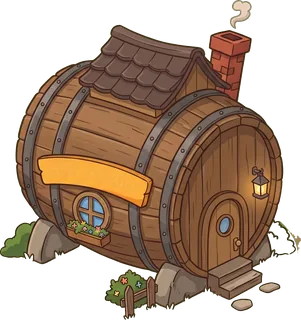
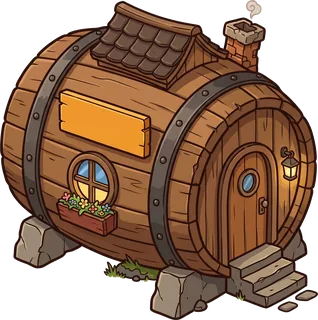
Houses: second user batch — root cottage and ivy house added, dome house and barrel inn replaced with cleaner art (89 total)

diff --git a/kasaba-gecesi/sunucu/game.js b/kasaba-gecesi/sunucu/game.js
@@ -73,7 +73,7 @@ const KOZMETIK={
   bayrak:{kirmizi:{n:'Kırmızı bayrak',nadir:'siradan',renk:'#e23b3b'},mavi:{n:'Mavi bayrak',nadir:'siradan',renk:'#3b7bff'},yesil:{n:'Yeşil bayrak',nadir:'siradan',renk:'#2fb55a'},mor:{n:'Mor bayrak',nadir:'siradan',renk:'#8e4bff'},
     yildiz:{n:'Yıldızlı bayrak',nadir:'nadir',renk:'#1e3a8a',ico:'⭐'},ay:{n:'Hilal bayrağı',nadir:'nadir',renk:'#0e1a3d',ico:'🌙'},ejder:{n:'Ejder sancağı',nadir:'efsanevi',renk:'#7a1010',ico:'🐉'},simsek:{n:'Şimşek sancağı',nadir:'efsanevi',renk:'#3a2f1c',ico:'⚡'}},
   // ev görünümleri: çizimler sayfa/evler.js (SVG) ve sayfa/ev/<key>.webp (kullanıcı resimleri); anahtar listesi testle eşlenir
-  ev:{'kemerli-kulube':{n:'Kemerli kulübe',nadir:'siradan'},'toprak-dam':{n:'Toprak damlı ev',nadir:'siradan'},'kaya-konak':{n:'Kaya konak',nadir:'nadir'},'ayakli-ev':{n:'Ayaklı ev',nadir:'siradan'},'ucan-daire':{n:'Uçan daire',nadir:'efsanevi'},'mekanik-mantar':{n:'Mekanik mantar',nadir:'efsanevi'},'sera-kubbe':{n:'Sera kubbe',nadir:'efsanevi'},'cimen-dam':{n:'Çimen damlı ev',nadir:'nadir'},'fici-han':{n:'Fıçı han',nadir:'nadir'},'kapsul-ev':{n:'Kapsül ev',nadir:'efsanevi'},'ahsap-kosk':{n:'Ahşap köşk',nadir:'siradan'},'mantar-kosk':{n:'Mantar köşk',nadir:'nadir'},'kutuk-ev':{n:'Kütük ev',nadir:'nadir'},'kubbe-ev':{n:'Kubbe ev',nadir:'siradan'},'a-catili':{n:'A çatılı kulübe',nadir:'siradan'},'kule-ev':{n:'Kule ev',nadir:'nadir'},'fici':{n:'Fıçı ev',nadir:'siradan'},'mantar':{n:'Benekli mantar',nadir:'siradan'},'peribacasi':{n:'Peri bacası',nadir:'nadir'},'yurt':{n:'Keçe yurt',nadir:'siradan'},'igloo':{n:'Buz evi',nadir:'nadir'},'deniz-feneri':{n:'Deniz feneri',nadir:'nadir'},'yel-degirmeni':{n:'Yel değirmeni',nadir:'nadir'},'caydanlik':{n:'Çaydanlık ev',nadir:'nadir'},'cizme':{n:'Çizme ev',nadir:'nadir'},'kabak':{n:'Kabak ev',nadir:'nadir'},'salyangoz':{n:'Salyangoz kabuğu',nadir:'nadir'},'ters-kayik':{n:'Ters kayık',nadir:'siradan'},'agac-ev':{n:'Ağaç ev',nadir:'efsanevi'},'bulut':{n:'Bulut ev',nadir:'efsanevi'},'yuzen-ada':{n:'Yüzen ada',nadir:'efsanevi'},'saat-kulesi':{n:'Saat kulesi',nadir:'efsanevi'},'kristal':{n:'Kristal mağara',nadir:'efsanevi'},'roket':{n:'Roket ev',nadir:'efsanevi'},'steampunk':{n:'Buhar köşkü',nadir:'efsanevi'},'cadi':{n:'Cadı kulübesi',nadir:'nadir'},'kitap':{n:'Kitap ev',nadir:'efsanevi'},'sirk-cadiri':{n:'Sirk çadırı',nadir:'nadir'},'serender':{n:'Serender',nadir:'siradan'},'kerpic-kule':{n:'Kerpiç kule',nadir:'nadir'},'rondavel':{n:'Saz kulübe',nadir:'siradan'},'ejder-yumurtasi':{n:'Ejder yumurtası',nadir:'efsanevi'},'kar-kuresi':{n:'Kar küresi',nadir:'efsanevi'},'pagoda':{n:'Pagoda',nadir:'efsanevi'},'basamakli-tas':{n:'Basamaklı taş ev',nadir:'nadir'},'yoruk-cadiri':{n:'Yörük çadırı',nadir:'siradan'},'kervansaray':{n:'Kervansaray evi',nadir:'nadir'},'kirmizi-ev':{n:'Kırmızı ahşap ev',nadir:'siradan'},'alp-saleti':{n:'Alp şalesi',nadir:'siradan'},'safranbolu':{n:'Safranbolu konağı',nadir:'nadir'},'mardin':{n:'Mardin taş evi',nadir:'nadir'},'ege-tas':{n:'Ege taş evi',nadir:'siradan'},'kerpic-dam':{n:'Kerpiç damlı ev',nadir:'siradan'},'santorini':{n:'Ak badanalı ev',nadir:'nadir'},'viking':{n:'Viking uzun evi',nadir:'nadir'},'minka':{n:'Minka',nadir:'nadir'},'fenerli-ev':{n:'Fenerli ev',nadir:'nadir'},'roma-villasi':{n:'Roma villası',nadir:'nadir'},'venedik':{n:'Venedik evi',nadir:'nadir'},'riad':{n:'Riad',nadir:'nadir'},'kanal-evi':{n:'Kanal evi',nadir:'nadir'},'izba':{n:'İzba',nadir:'siradan'},'tudor':{n:'Yarım ahşap ev',nadir:'siradan'},'tas-kulube':{n:'Taş kulübe',nadir:'siradan'},'tugla-ev':{n:'Tuğla ev',nadir:'siradan'},'karli-kulube':{n:'Karlı kulübe',nadir:'siradan'},'saz-damli':{n:'Saz damlı ev',nadir:'siradan'},'cim-damli':{n:'Yuvarlak kapılı ev',nadir:'siradan'},'balikci':{n:'Balıkçı evi',nadir:'siradan'},'firin':{n:'Fırın ev',nadir:'siradan'},'demirci':{n:'Demirci evi',nadir:'siradan'},'bahceli':{n:'Bahçeli ev',nadir:'siradan'},'ambar':{n:'Ambar ev',nadir:'siradan'},'gece-mavisi':{n:'Gece mavisi ev',nadir:'nadir'},'altin-kosk':{n:'Altın köşk',nadir:'efsanevi'},'buyucu-evi':{n:'Büyücü evi',nadir:'nadir'},'kurabiye':{n:'Kurabiye ev',nadir:'nadir'},'neon-ev':{n:'Neon ev',nadir:'efsanevi'},'gunes-evi':{n:'Güneş evi',nadir:'nadir'},'konak':{n:'Konak',nadir:'siradan'},'yali':{n:'Yalı',nadir:'nadir'},'karadeniz':{n:'Karadeniz evi',nadir:'siradan'},'burc':{n:'Burç ev',nadir:'siradan'},'nil-evi':{n:'Nil kerpiç evi',nadir:'siradan'},'hanok':{n:'Hanok',nadir:'nadir'},'bambu-ev':{n:'Bambu ev',nadir:'siradan'},'kutup-istasyonu':{n:'Kutup istasyonu',nadir:'nadir'}},
+  ev:{'kemerli-kulube':{n:'Kemerli kulübe',nadir:'siradan'},'toprak-dam':{n:'Toprak damlı ev',nadir:'siradan'},'kaya-konak':{n:'Kaya konak',nadir:'nadir'},'ayakli-ev':{n:'Ayaklı ev',nadir:'siradan'},'ucan-daire':{n:'Uçan daire',nadir:'efsanevi'},'mekanik-mantar':{n:'Mekanik mantar',nadir:'efsanevi'},'sera-kubbe':{n:'Sera kubbe',nadir:'efsanevi'},'cimen-dam':{n:'Çimen damlı ev',nadir:'nadir'},'fici-han':{n:'Fıçı han',nadir:'nadir'},'kapsul-ev':{n:'Kapsül ev',nadir:'efsanevi'},'ahsap-kosk':{n:'Ahşap köşk',nadir:'siradan'},'mantar-kosk':{n:'Mantar köşk',nadir:'nadir'},'kutuk-ev':{n:'Kütük ev',nadir:'nadir'},'kubbe-ev':{n:'Kubbe ev',nadir:'siradan'},'a-catili':{n:'A çatılı kulübe',nadir:'siradan'},'kule-ev':{n:'Kule ev',nadir:'nadir'},'kok-kosk':{n:'Kök köşk',nadir:'nadir'},'sarmasikli-ev':{n:'Sarmaşıklı ev',nadir:'siradan'},'fici':{n:'Fıçı ev',nadir:'siradan'},'mantar':{n:'Benekli mantar',nadir:'siradan'},'peribacasi':{n:'Peri bacası',nadir:'nadir'},'yurt':{n:'Keçe yurt',nadir:'siradan'},'igloo':{n:'Buz evi',nadir:'nadir'},'deniz-feneri':{n:'Deniz feneri',nadir:'nadir'},'yel-degirmeni':{n:'Yel değirmeni',nadir:'nadir'},'caydanlik':{n:'Çaydanlık ev',nadir:'nadir'},'cizme':{n:'Çizme ev',nadir:'nadir'},'kabak':{n:'Kabak ev',nadir:'nadir'},'salyangoz':{n:'Salyangoz kabuğu',nadir:'nadir'},'ters-kayik':{n:'Ters kayık',nadir:'siradan'},'agac-ev':{n:'Ağaç ev',nadir:'efsanevi'},'bulut':{n:'Bulut ev',nadir:'efsanevi'},'yuzen-ada':{n:'Yüzen ada',nadir:'efsanevi'},'saat-kulesi':{n:'Saat kulesi',nadir:'efsanevi'},'kristal':{n:'Kristal mağara',nadir:'efsanevi'},'roket':{n:'Roket ev',nadir:'efsanevi'},'steampunk':{n:'Buhar köşkü',nadir:'efsanevi'},'cadi':{n:'Cadı kulübesi',nadir:'nadir'},'kitap':{n:'Kitap ev',nadir:'efsanevi'},'sirk-cadiri':{n:'Sirk çadırı',nadir:'nadir'},'serender':{n:'Serender',nadir:'siradan'},'kerpic-kule':{n:'Kerpiç kule',nadir:'nadir'},'rondavel':{n:'Saz kulübe',nadir:'siradan'},'ejder-yumurtasi':{n:'Ejder yumurtası',nadir:'efsanevi'},'kar-kuresi':{n:'Kar küresi',nadir:'efsanevi'},'pagoda':{n:'Pagoda',nadir:'efsanevi'},'basamakli-tas':{n:'Basamaklı taş ev',nadir:'nadir'},'yoruk-cadiri':{n:'Yörük çadırı',nadir:'siradan'},'kervansaray':{n:'Kervansaray evi',nadir:'nadir'},'kirmizi-ev':{n:'Kırmızı ahşap ev',nadir:'siradan'},'alp-saleti':{n:'Alp şalesi',nadir:'siradan'},'safranbolu':{n:'Safranbolu konağı',nadir:'nadir'},'mardin':{n:'Mardin taş evi',nadir:'nadir'},'ege-tas':{n:'Ege taş evi',nadir:'siradan'},'kerpic-dam':{n:'Kerpiç damlı ev',nadir:'siradan'},'santorini':{n:'Ak badanalı ev',nadir:'nadir'},'viking':{n:'Viking uzun evi',nadir:'nadir'},'minka':{n:'Minka',nadir:'nadir'},'fenerli-ev':{n:'Fenerli ev',nadir:'nadir'},'roma-villasi':{n:'Roma villası',nadir:'nadir'},'venedik':{n:'Venedik evi',nadir:'nadir'},'riad':{n:'Riad',nadir:'nadir'},'kanal-evi':{n:'Kanal evi',nadir:'nadir'},'izba':{n:'İzba',nadir:'siradan'},'tudor':{n:'Yarım ahşap ev',nadir:'siradan'},'tas-kulube':{n:'Taş kulübe',nadir:'siradan'},'tugla-ev':{n:'Tuğla ev',nadir:'siradan'},'karli-kulube':{n:'Karlı kulübe',nadir:'siradan'},'saz-damli':{n:'Saz damlı ev',nadir:'siradan'},'cim-damli':{n:'Yuvarlak kapılı ev',nadir:'siradan'},'balikci':{n:'Balıkçı evi',nadir:'siradan'},'firin':{n:'Fırın ev',nadir:'siradan'},'demirci':{n:'Demirci evi',nadir:'siradan'},'bahceli':{n:'Bahçeli ev',nadir:'siradan'},'ambar':{n:'Ambar ev',nadir:'siradan'},'gece-mavisi':{n:'Gece mavisi ev',nadir:'nadir'},'altin-kosk':{n:'Altın köşk',nadir:'efsanevi'},'buyucu-evi':{n:'Büyücü evi',nadir:'nadir'},'kurabiye':{n:'Kurabiye ev',nadir:'nadir'},'neon-ev':{n:'Neon ev',nadir:'efsanevi'},'gunes-evi':{n:'Güneş evi',nadir:'nadir'},'konak':{n:'Konak',nadir:'siradan'},'yali':{n:'Yalı',nadir:'nadir'},'karadeniz':{n:'Karadeniz evi',nadir:'siradan'},'burc':{n:'Burç ev',nadir:'siradan'},'nil-evi':{n:'Nil kerpiç evi',nadir:'siradan'},'hanok':{n:'Hanok',nadir:'nadir'},'bambu-ev':{n:'Bambu ev',nadir:'siradan'},'kutup-istasyonu':{n:'Kutup istasyonu',nadir:'nadir'}},
   efekt:{yaprak:{n:'Yaprak',nadir:'siradan',ico:'🍂'},yildiz:{n:'Yıldız',nadir:'nadir',ico:'✨'},duman:{n:'Duman',nadir:'nadir',ico:'💨'},havaifisek:{n:'Havai fişek',nadir:'efsanevi',ico:'🎆'}}
 };
 const KASA={esya:50,yildiz:12,siradan:25,nadir:10,efsanevi:3}; // yüzde

diff --git a/kasaba-gecesi/sayfa/evler.js b/kasaba-gecesi/sayfa/evler.js
@@ -264,7 +264,7 @@ const P={
 for(const [k,o] of Object.entries(P))M[k]=kutu(o);
 // ---------- kullanıcının çizdiği evler (raster) ----------
 const RESIM={'kemerli-kulube':[320,278],'toprak-dam':[309,320],'kaya-konak':[283,320],'ayakli-ev':[305,320],'ucan-daire':[320,320],'mekanik-mantar':[292,320],'sera-kubbe':[284,320],'cimen-dam':[313,320],
-  'fici-han':[301,320],'kapsul-ev':[311,320],'ahsap-kosk':[308,320],'mantar-kosk':[307,320],'kutuk-ev':[315,320],'kubbe-ev':[320,316],'a-catili':[320,317],'kule-ev':[217,320]};
+  'fici-han':[318,320],'kapsul-ev':[311,320],'ahsap-kosk':[308,320],'mantar-kosk':[307,320],'kutuk-ev':[315,320],'kubbe-ev':[320,293],'a-catili':[320,317],'kule-ev':[217,320],'kok-kosk':[320,315],'sarmasikli-ev':[308,320]};
 // sahne ölçüsü: genişlik en çok 150, yükseklik en çok 140 birim; taban y=40
 function resimOlcu(key){const r=RESIM[key];if(!r)return null;const s=Math.min(150/r[0],140/r[1]);const w=r[0]*s,h=r[1]*s;return{w,h,x:-w/2+6,y:40-h}}
 function resimModel(key,url){const o=resimOlcu(key);return{resim:url,kapi:null,pencere:null,golge:{cx:6,rx:o.w*0.48},ust:o.y+4,

diff --git a/docs/DURUM.md b/docs/DURUM.md
@@ -47,7 +47,7 @@ Kasa (her maç sonu), rozetler, `/ben` (dükkân, dolap), kozmetikler oyunda gö
 Kullanıcı kararları: eşyayı şans belirler (rol sonrası seçim yok); meydan paketi (ilk dokunan alır, kısa süre, "biri kaptı"), paket eşya sayısı hayatta olana bağlı; tek anahtar. Uygulandı: 10 eşya üç katmanda (bedava havuz sıradan+zar; nadir/efsanevi yalnız kasadan), iki yuva, pasif iksir ve vasiyet, hedefli kilit/pusula (ziyaret değil), kum saati, zar, paket; maç sonu kim ne kullandı (fiş hariç); gazete/hikâye satırları; `/ben` ve veritabanı değişmedi. Güvenlik taraması (commit başına, 3 bulgu → düzeltildi): zar envanter düşümü özgün anahtarla; fiş maç sonu listesine hiç girmez; fiş paketini kapanın kimliği günlüğe yazılmaz. Ölçüm README'de (kapalıyla fark gürültü içinde; kullanım %34–61). Oturum içi istek: eşya çipine dokununca bilgi kutusu (ne yapar + nasıl kullanılır, `ESYA[].nasil`), rehberde "Nasıl:" satırı. Taze inceleme (fable): 0 kritik, 3 önemli → düzeltildi (paket sabah animasyonundan sonra; Hortlak vasiyeti hayalet hedefini söylemez; iki iksir tek harcanır). Ertelenen küçükler (kucukler-3 ile kapandı): `kap` paket açıkken yalnız kapanın priv'ini gönderir; paket halkası 100 ms sayaçla; hedefli eşya seçimi sonrası rol modu geri gelir; plan metni ve `denge.js` temizliği. **Kabul:** maç sonu listesinde boş eşya satırı lobi eşyasının fiş olduğunu ima eder (tasarım kaynaklı); `kap/esya` `d,g` eksikse kabul (`act/vote` ile aynı). **Canlı: `main@37ea08b` (2026-10-26 akşam; `main` `ilerleme`/`esya-2`'ye fast-forward edildi, kasaba ve kasaba-test aynı; göç 008 zaten DB'deydi, 0 yeni göç). `ilerleme` ve `esya-2` bitmiş dallar.** Botla 8 kişilik gerçek maç: lobide zar → vasiyete döndü, 3 paket düştü/kapıldı (kum, vasiyet, zar), kum çevrildi (+30 sn), maske/pusula haberleri anonim, vasiyet sabah okundu, maç sonu eşya sütunu ve gazete kartları doğru, kasadan iksir, sayfa hatası yok. Canlıda gerçek oyuncularla izlenecek: fenerin ve kilidin gücü, paket kapma dağılımı, kum saati kullanımı.
 
 ## Ev görünümleri (2026-10-27, dal `evler`, kasaba-test'te)
-Kullanıcı isteği: evler puan/yıldızla alınabilsin, 80+ ev, kullanıcının 16 resmi de kullanılsın. Yeni kozmetik türü **`ev`** (`KOZMETIK.ev`, 87 ev: 34 sıradan, 37 nadir, 16 efsanevi): 71 SVG (`sayfa/evler.js`, parça kütüphanesi + özel siluetler: deniz feneri, yel değirmeni, yurt, pagoda, peri bacası, Safranbolu, Mardin, minka, Viking…) ve kullanıcının 16 resmi (`sayfa/ev/<key>.webp`, 320 px saydam; arka plan, kum halkası ve zemin çimeni betikle silindi, tabeladaki "SEN · DOKUN" yazısı örtüldü; toplam ~445 KB, yalnız kullanılınca yüklenir). Kasa, dükkân (/ben önizlemeli), dolap ("Evin"), sunucu sahiplik doğrulaması; `kasaOdulu` nadirlik içinde önce türü eşit seçer (85 ev şapka/bayrağı ezmesin). Sahnede model kapı/pencere ışığı/parlama/karartma/ad yüksekliği verir; resimli evlerde kapı animasyonu ve pencere ışığı yok, ölünce gri ton. Sahne anahtarına bayrak ve ev eklendi (önce bayrak değişince sahne yenilenmiyordu). Kullanıcının görsel ajanı için talimat `docs/ev-gorselleri-talimat.md`; ajanın 2026-10-27 paketi resim içermiyordu (yalnız 20 kayıtlık katalog ve işlevsiz betik), yeni iki fikir SVG olarak eklendi (Yörük çadırı, Kervansaray evi; kümbet türbe olduğu için kervansaray kapısına çevrildi). Göç yok.
+Kullanıcı isteği: evler puan/yıldızla alınabilsin, 80+ ev, kullanıcının 16 resmi de kullanılsın. Yeni kozmetik türü **`ev`** (`KOZMETIK.ev`, 89 ev: 35 sıradan, 38 nadir, 16 efsanevi): 71 SVG (`sayfa/evler.js`, parça kütüphanesi + özel siluetler: deniz feneri, yel değirmeni, yurt, pagoda, peri bacası, Safranbolu, Mardin, minka, Viking…) ve kullanıcının 18 resmi (`sayfa/ev/<key>.webp`; 2026-10-27 ikinci parti beyaz zeminli 8 resimden Kök köşk ve Sarmaşıklı ev eklendi, Kubbe ev ve Fıçı han zemin disksiz sürümle değişti, toprak damlı 4 varyant mevcut evin tekrarı olduğu için alınmadı, 320 px saydam; arka plan, kum halkası ve zemin çimeni betikle silindi, tabeladaki "SEN · DOKUN" yazısı örtüldü; toplam ~445 KB, yalnız kullanılınca yüklenir). Kasa, dükkân (/ben önizlemeli), dolap ("Evin"), sunucu sahiplik doğrulaması; `kasaOdulu` nadirlik içinde önce türü eşit seçer (85 ev şapka/bayrağı ezmesin). Sahnede model kapı/pencere ışığı/parlama/karartma/ad yüksekliği verir; resimli evlerde kapı animasyonu ve pencere ışığı yok, ölünce gri ton. Sahne anahtarına bayrak ve ev eklendi (önce bayrak değişince sahne yenilenmiyordu). Kullanıcının görsel ajanı için talimat `docs/ev-gorselleri-talimat.md`; ajanın 2026-10-27 paketi resim içermiyordu (yalnız 20 kayıtlık katalog ve işlevsiz betik), yeni iki fikir SVG olarak eklendi (Yörük çadırı, Kervansaray evi; kümbet türbe olduğu için kervansaray kapısına çevrildi). Göç yok.
 
 ## Paket yeri rastgele (2026-10-27, dal `paket-yeri`, canlıda)
 Kullanıcı önerisi: meydan paketi hep ortaya düşmesin. Sunucu açılışta `P.paket.yer={x,y}` (birim disk, herkese aynı) seçer; istemci karakter halkasının iç elipsine ölçekler (yatay %50, dikey %35: kum alanında kalır). 4/6/7/9/12 kişide sekiz uç yönde sohbet, düğmeler, sayaç, rol şeridi ve eşya çipleriyle çakışma yok, ekran dışına taşmaz (e2e 8 yön + ölçüm). Tartışmada evlere dokunulmadığı için paket bir evin köşesine binerse dokunmayı engellemez (kabul). KG_VER 2026-11-03d. **Canlı: kasaba + kasaba-test (2026-10-27).**
